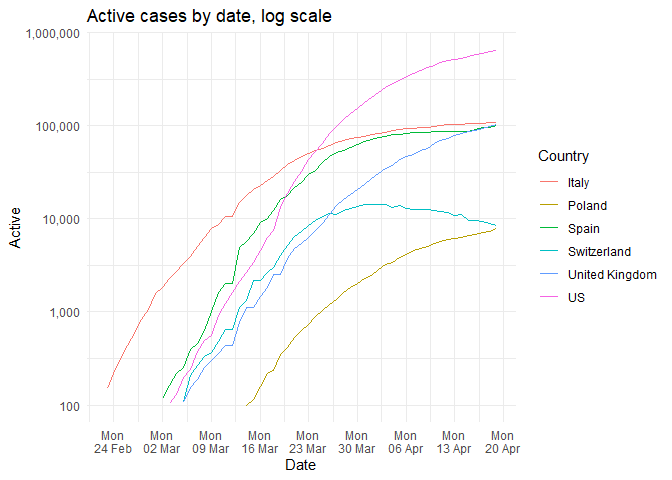
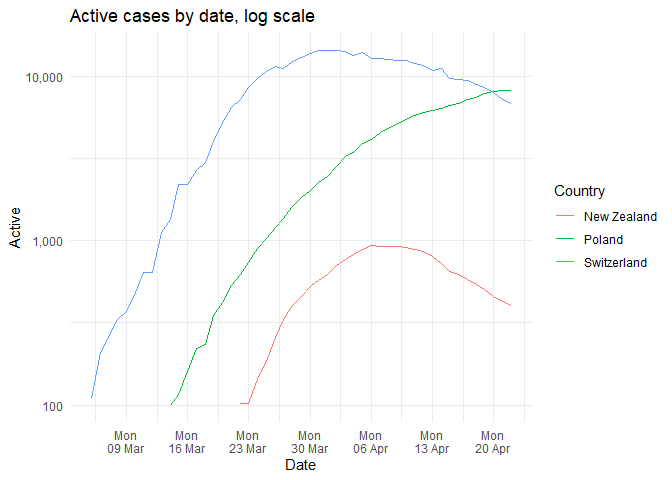
update

diff --git a/README.md b/README.md
@@ -10,7 +10,7 @@ upwards. `places_to_chart` defines which countries to chart. Duh.
 
 ``` r
 threshold = 100
-places_to_chart = c("Switzerland", "Poland", "Spain", "Italy", "United Kingdom", "US")
+places_to_chart = c("Switzerland", "Poland", "New Zealand")
 ```
 
 ## Load data
@@ -119,7 +119,7 @@ covplot +
        Daily change of 26% means doubling of case number every 3 days.")
 ```
 
-    ## Warning: Removed 18 rows containing missing values (geom_path).
+    ## Warning: Removed 9 rows containing missing values (geom_path).
 
 ![](readme_files/figure-gfm/chart-3.png)<!-- -->
 
@@ -133,7 +133,7 @@ covplot +
      Negative values mean that confirmed cases are increasing at a decreasing rate.")
 ```
 
-    ## Warning: Removed 54 rows containing missing values (geom_path).
+    ## Warning: Removed 27 rows containing missing values (geom_path).
 
 ![](readme_files/figure-gfm/chart-4.png)<!-- -->
 
@@ -146,7 +146,7 @@ covplot +
 )
 ```
 
-    ## Warning: Removed 18 rows containing missing values (geom_path).
+    ## Warning: Removed 9 rows containing missing values (geom_path).
 
 ![](readme_files/figure-gfm/chart-5.png)<!-- -->
 
